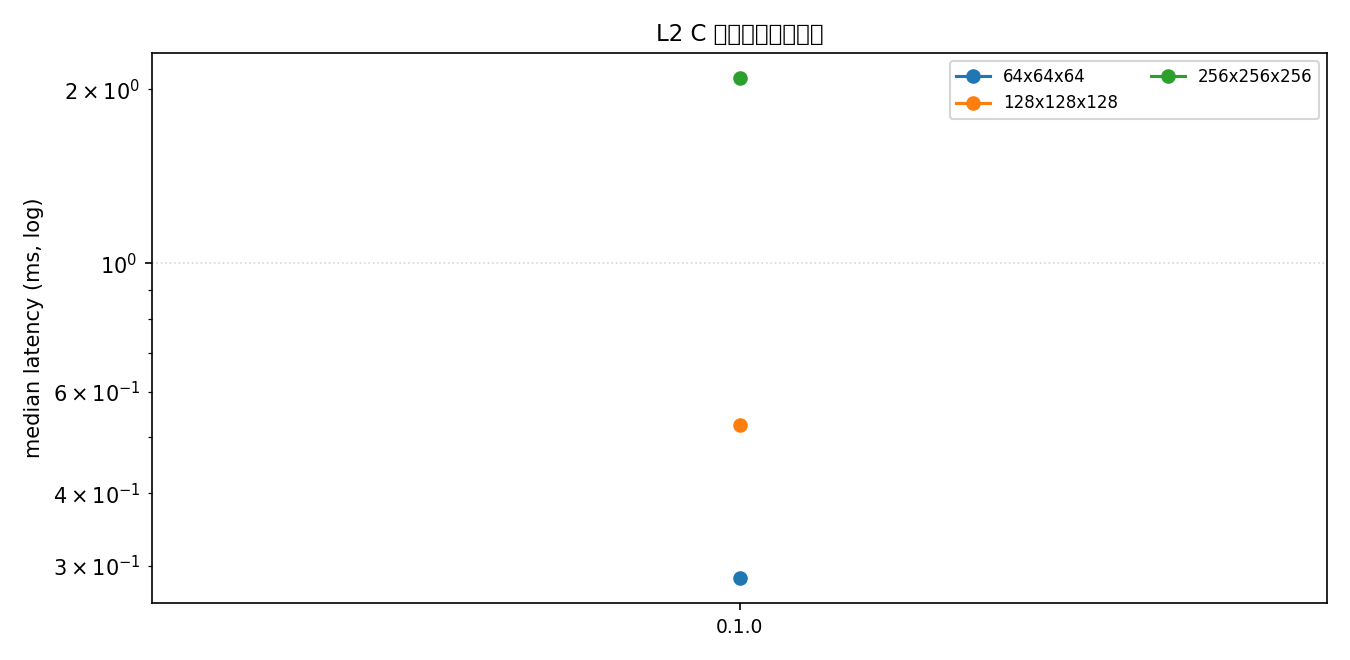
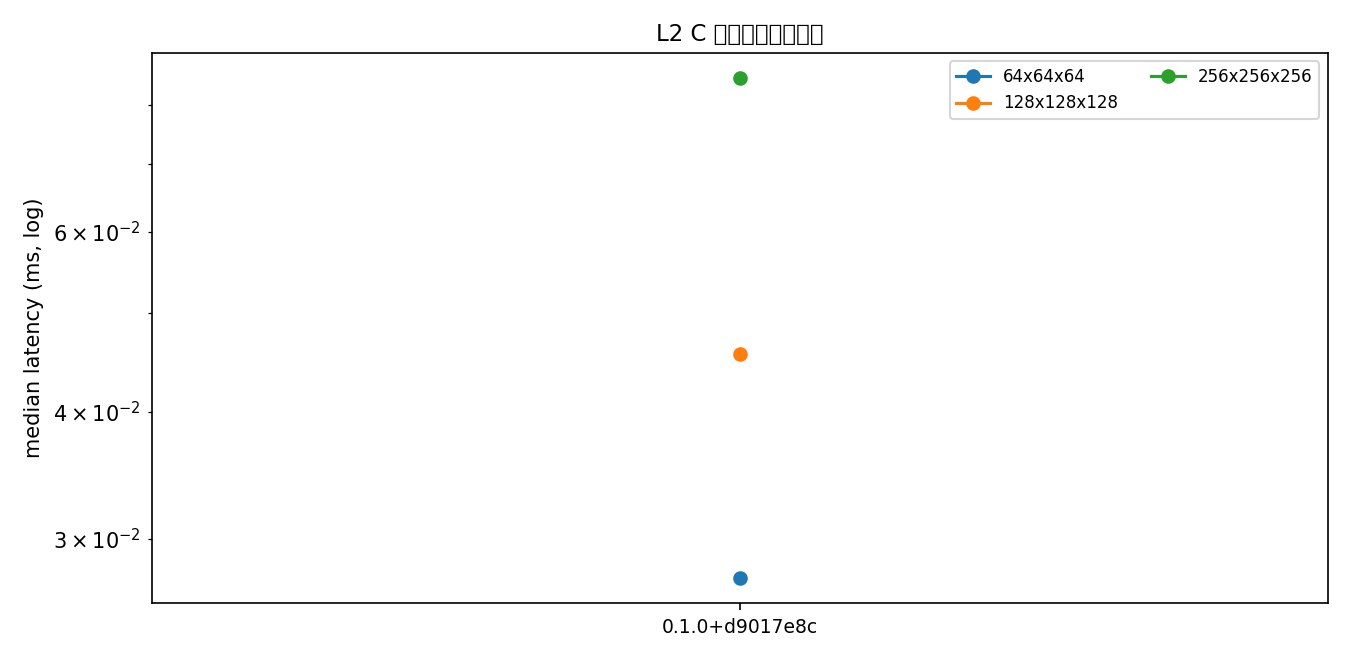
bench(gemm): re-record the sample pages from an optimized build

diff --git a/docs/benchmarks/gemm-fp32.md b/docs/benchmarks/gemm-fp32.md
@@ -1,15 +1,15 @@
 # gemm 基准（fp32）
 
-> 条件：BW1102（unknown） · torch 2.7.1 · ftrain-torch 0.1.0 · 2026-09-22
+> 条件：BW1102（unknown） · torch 2.7.1 · flash-train 0.1.0 · 2026-09-29
 > 口径：事件计时中位数；基线为 PyTorch 组合实现；计时策略与公平性规则见 [benchmarks/README.md](../../benchmarks/README.md)
 
 ## L1 Python 便利层（端到端）
 
 | 形状 (m×k×n) | 基线 ms | flash-train ms | 加速比 |
 |---|---:|---:|---:|
-| 64x64x64 | 0.019 | 0.034 | x0.56 |
-| 128x128x128 | 0.017 | 0.049 | x0.35 |
-| 256x256x256 | 0.019 | 0.087 | x0.22 |
+| 64x64x64 | 0.020 | 0.031 | x0.63 |
+| 128x128x128 | 0.018 | 0.048 | x0.37 |
+| 256x256x256 | 0.018 | 0.088 | x0.21 |
 
 ![L1 Python 便利层（端到端）](gemm-fp32-convenience-python.png)
 
@@ -17,9 +17,9 @@
 
 | 形状 (m×k×n) | 基线 ms | flash-train ms | 加速比 |
 |---|---:|---:|---:|
-| 64x64x64 | 0.019 | 0.285 | x0.07 |
-| 128x128x128 | 0.017 | 0.525 | x0.03 |
-| 256x256x256 | 0.019 | 2.091 | x0.01 |
+| 64x64x64 | 0.020 | 0.027 | x0.71 |
+| 128x128x128 | 0.018 | 0.046 | x0.39 |
+| 256x256x256 | 0.018 | 0.085 | x0.21 |
 
 ![L2 C 便利层（端到端）](gemm-fp32-convenience-c.png)
 
@@ -27,9 +27,9 @@
 
 | 形状 (m×k×n) | 基线 ms | flash-train ms | 加速比 |
 |---|---:|---:|---:|
-| 64x64x64 | 0.019 | 0.268 | x0.07 |
-| 128x128x128 | 0.017 | 0.509 | x0.03 |
-| 256x256x256 | 0.019 | 2.075 | x0.01 |
+| 64x64x64 | 0.020 | 0.022 | x0.87 |
+| 128x128x128 | 0.018 | 0.040 | x0.44 |
+| 256x256x256 | 0.018 | 0.080 | x0.23 |
 
 ![L3 Plan 复用（稳态）](gemm-fp32-plan-reuse.png)
 
@@ -37,8 +37,8 @@
 
 | 形状 (m×k×n) | # | 实现 | 中位数 ms | workspace |
 |---|---:|---|---:|---:|
-| 64x64x64 | 0 | Fp32Gemm | 0.268 | 0 B |
-| 128x128x128 | 0 | Fp32Gemm | 0.509 | 0 B |
-| 256x256x256 | 0 | Fp32Gemm | 2.074 | 0 B |
+| 64x64x64 | 0 | Fp32Gemm | 0.022 | 0 B |
+| 128x128x128 | 0 | Fp32Gemm | 0.040 | 0 B |
+| 256x256x256 | 0 | Fp32Gemm | 0.080 | 0 B |
 
 数据来源：`benchmarks/results/`（随版本提交；复现步骤见 [benchmarks/README.md](../../benchmarks/README.md)）。

diff --git a/docs/benchmarks/gemm-fp32-curve.md b/docs/benchmarks/gemm-fp32-curve.md
@@ -1,46 +1,46 @@
 # gemm 性能曲线（fp32）
 
-> 最近环境：BW1102（unknown） · torch 2.7.1 · ftrain-torch 0.1.0 · 2026-09-22；聚合全部历史结果（`benchmarks/results/`）自动生成。
+> 最近环境：BW1102（unknown） · torch 2.7.1 · flash-train 0.1.0 · 2026-09-29；聚合全部历史结果（`benchmarks/results/`）自动生成。
 
-> 当前仅一个版本（0.1.0）的数据——曲线将随版本发布自动延长。
+> 当前仅一个版本（0.1.0+d9017e8c）的数据——曲线将随版本发布自动延长。
 
 ## L1 Python 便利层（端到端）
 
-| 形状 (m×k×n) | 0.1.0 |
+| 形状 (m×k×n) | 0.1.0+d9017e8c |
 |---|---|
-| 64x64x64 | 0.034 |
-| 128x128x128 | 0.049 |
-| 256x256x256 | 0.087 |
+| 64x64x64 | 0.031 |
+| 128x128x128 | 0.048 |
+| 256x256x256 | 0.088 |
 
 ![L1 Python 便利层（端到端） 曲线](gemm-fp32-convenience-python-curve.png)
 
 ## L2 C 便利层（端到端）
 
-| 形状 (m×k×n) | 0.1.0 |
+| 形状 (m×k×n) | 0.1.0+d9017e8c |
 |---|---|
-| 64x64x64 | 0.285 |
-| 128x128x128 | 0.525 |
-| 256x256x256 | 2.091 |
+| 64x64x64 | 0.027 |
+| 128x128x128 | 0.046 |
+| 256x256x256 | 0.085 |
 
 ![L2 C 便利层（端到端） 曲线](gemm-fp32-convenience-c-curve.png)
 
 ## L3 Plan 复用（稳态）
 
-| 形状 (m×k×n) | 0.1.0 |
+| 形状 (m×k×n) | 0.1.0+d9017e8c |
 |---|---|
-| 64x64x64 | 0.268 |
-| 128x128x128 | 0.509 |
-| 256x256x256 | 2.075 |
+| 64x64x64 | 0.022 |
+| 128x128x128 | 0.040 |
+| 256x256x256 | 0.080 |
 
 ![L3 Plan 复用（稳态） 曲线](gemm-fp32-plan-reuse-curve.png)
 
 ## L4 逐 Primitive（实现矩阵）
 
-| 形状 (m×k×n) | 0.1.0 |
+| 形状 (m×k×n) · 实现 | 0.1.0+d9017e8c |
 |---|---|
-| 64x64x64 | 0.268 |
-| 128x128x128 | 0.509 |
-| 256x256x256 | 2.074 |
+| 64x64x64 #0 Fp32Gemm | 0.022 |
+| 128x128x128 #0 Fp32Gemm | 0.040 |
+| 256x256x256 #0 Fp32Gemm | 0.080 |
 
 ![L4 逐 Primitive（实现矩阵） 曲线](gemm-fp32-primitive-curve.png)
 
